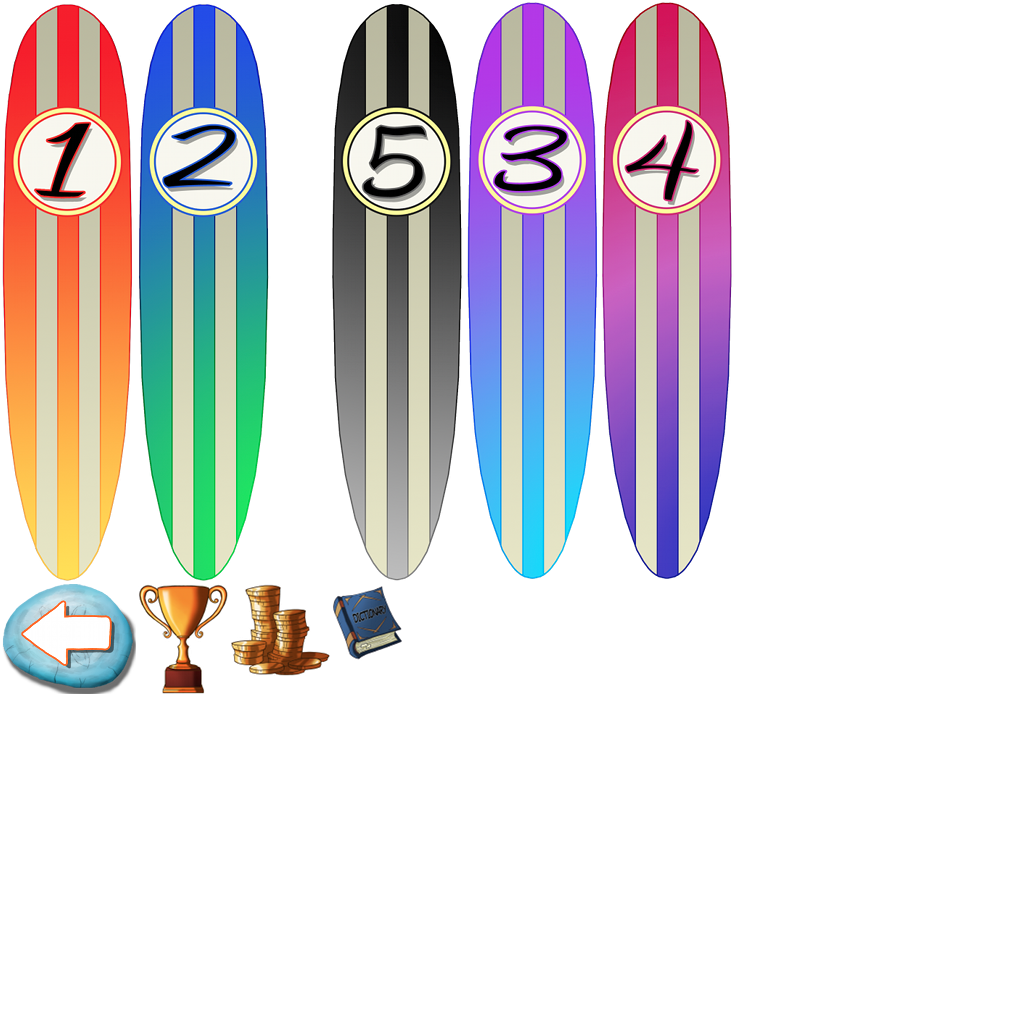
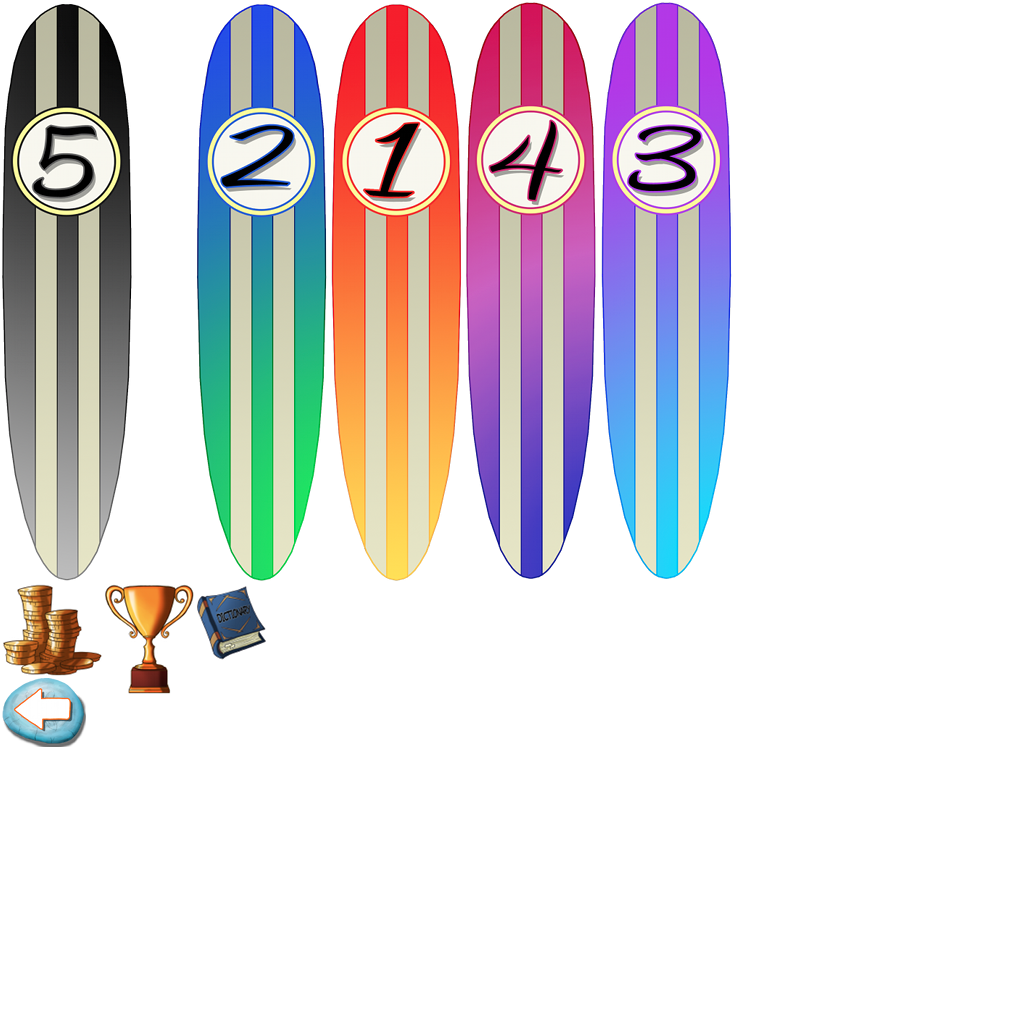
added back button to level screen

Changed region(s): [[0.0, 0.0, 0.7188, 0.75]]

diff --git a/Classes/SinglePlayLevelMenu.mm b/Classes/SinglePlayLevelMenu.mm
@@ -144,7 +144,22 @@
         //level5Button.position = ccp(439-27, 160);
         //[levelsBatchNode addChild:level5Button z:2];
 
-        levelsMenu = [[CCMenu menuWithItems:level1Button, level2Button, level3Button, level4Button, level5Button, nil] retain];
+        
+        //Back Button
+        //backButton = [[CCSprite spriteWithSpriteFrameName:@"Button_Back001.png"] retain];
+        //backButton.position = ccp(450, 30);
+        //backButton.visible = NO;
+        //[levelsBatchNode addChild:backButton z:3];
+        
+        backButton = [[CCMenuItemImage
+                         itemFromNormalSprite:[CCSprite spriteWithSpriteFrameName:@"Button_Back001.png"] 
+                         selectedSprite:[CCSprite spriteWithSpriteFrameName:@"Button_Back001.png"]
+                         disabledSprite:[CCSprite spriteWithSpriteFrameName:@"Button_Back001.png"]
+                         target:self
+                         selector:@selector(backButtonPressed)] retain];
+        backButton.position = ccp(455, 30); 
+        
+        levelsMenu = [[CCMenu menuWithItems:level1Button, level2Button, level3Button, level4Button, level5Button, backButton,nil] retain];
         levelsMenu.position = CGPointZero;
         [self addChild:levelsMenu z:2];
         
@@ -238,12 +253,7 @@
         level5LongWordAward.position = ccp(412, 50);
         level5LongWordAward.visible=NO;
         [levelsBatchNode addChild:level5LongWordAward z:3];
-        
-        //Back Button
-        backButton = [[CCSprite spriteWithSpriteFrameName:@"Button_Back001.png"] retain];
-        backButton.position = ccp(450, 30);
-        backButton.visible = NO;
-        [levelsBatchNode addChild:backButton z:3];
+
         
         //DISPLAY THE STAR LEVELS BASED ON THE VALUES IN THE PLIST
         [self displayStars:@"Level1" 
@@ -433,6 +443,17 @@
     //}
     return TRUE;
 }
+
+-(BOOL) backButtonPressed
+{
+    
+    CCLOG(@"back Button PRESSED.");
+    
+    [ [GameManager sharedGameManager] runLoadingSceneWithTargetId:kMainMenuScene];
+    
+    return TRUE;
+}
+
 
 - (BOOL) ccTouchBegan:(UITouch *) touch withEvent:(UIEvent *) event {
     

diff --git a/Classes/SinglePlayLevelMenu.h b/Classes/SinglePlayLevelMenu.h
@@ -92,6 +92,7 @@ TotalPointAwardSprite:(CCSprite *) totalPointAwardSprite
 -(BOOL) level3ButtonPressed;
 -(BOOL) level4ButtonPressed;
 -(BOOL) level5ButtonPressed;
+-(BOOL) backButtonPressed;
 
 
 @end
